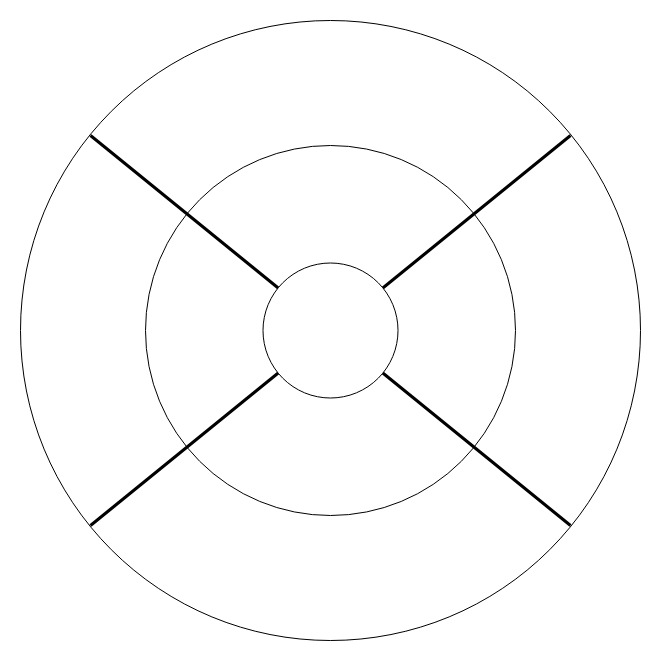
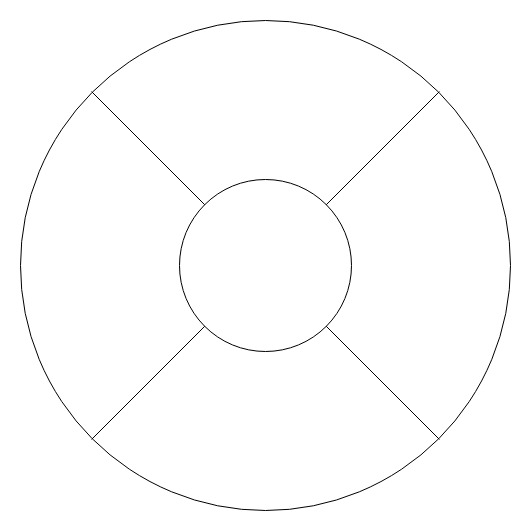
Removed distance (cause never used) and Added intermedia directions

diff --git a/casimir-web/src/SMMItem.js b/casimir-web/src/SMMItem.js
@@ -6,14 +6,14 @@ class SMMItem extends React.Component {
     constructor(props) {
         super(props);
         this.state = {
-            innerNorth: this.props.smm.innerNorth,
-            innerSouth: this.props.smm.innerSouth,
-            innerWest: this.props.smm.innerWest,
-            innerEast: this.props.smm.innerEast,
-            outerNorth: '',
-            outerSouth: '',
-            outerWest: '',
-            outerEast: '',
+            north: this.props.smm.north,
+            south: this.props.smm.south,
+            west: this.props.smm.west,
+            east: this.props.smm.east,
+            northEast: this.props.smm.northEast,
+            northWest: this.props.smm.northWest,
+            southWest: this.props.smm.southWest,
+            southWest: this.props.smm.southWest,
             middle: this.props.smm.middle
         }
     }
@@ -39,7 +39,7 @@ class SMMItem extends React.Component {
                         left: 250
                     }}
                 >
-                    {this.state.innerNorth}
+                    {this.state.north}
                 </Text>
                 <Text
                     style={{
@@ -50,7 +50,7 @@ class SMMItem extends React.Component {
                         left: 250
                     }}
                 >
-                    {this.state.innerSouth}
+                    {this.state.south}
                 </Text>
                 <Text
                     style={{
@@ -61,7 +61,7 @@ class SMMItem extends React.Component {
                         left: 125
                     }}
                 >
-                    {this.state.innerWest}
+                    {this.state.west}
                 </Text>
                 <Text
                     style={{
@@ -72,7 +72,7 @@ class SMMItem extends React.Component {
                         left: 350
                     }}
                 >
-                    {this.state.innerEast}
+                    {this.state.east}
                 </Text>
                 <Text
                     style={{
@@ -84,6 +84,50 @@ class SMMItem extends React.Component {
                     }}
                 >
                     {this.state.middle}
+                </Text>
+                <Text
+                    style={{
+                        fontWeight: 'bold',
+                        color: 'black',
+                        position: 'relative',
+                        top: 125,
+                        left: 350
+                    }}
+                >
+                    {this.state.northEast}
+                </Text>
+                <Text
+                    style={{
+                        fontWeight: 'bold',
+                        color: 'black',
+                        position: 'relative',
+                        top: 225,
+                        left: 125
+                    }}
+                >
+                    {this.state.northWest}
+                </Text>
+                <Text
+                    style={{
+                        fontWeight: 'bold',
+                        color: 'black',
+                        position: 'relative',
+                        top: 375,
+                        left: 350
+                    }}
+                >
+                    {this.state.southEast}
+                </Text>
+                <Text
+                    style={{
+                        fontWeight: 'bold',
+                        color: 'black',
+                        position: 'relative',
+                        top: 375,
+                        left: 125
+                    }}
+                >
+                    {this.state.southWest}
                 </Text>
             </ImageBackground>
         );

diff --git a/casimir-web/src/Adder.js b/casimir-web/src/Adder.js
@@ -18,7 +18,7 @@ class Adder extends React.Component {
   }
 
   static defaultProps = {
-    relations: ['South', 'North', 'East', 'West', 'NorthWest', 'NorthEast', 'SouthWest', 'SouthEast', 'PartOf', 'Far', 'Close' ],
+    relations: ['South', 'North', 'East', 'West', 'NorthWest', 'NorthEast', 'SouthWest', 'SouthEast', 'PartOf'],
     objectCategories: ['City', 'Country', 'Continent']
   }
 

diff --git a/casimir-web/src/Simulation.js b/casimir-web/src/Simulation.js
@@ -19,7 +19,7 @@ class Simulation extends React.Component {
     };
   }
   static defaultProps = {
-    relationCategories: ['Cardinal', 'Topological', 'Distance'],
+    relationCategories: ['Cardinal', 'Topological'],
     objectCategories: ['City', 'Country', 'Continent']
   }
 
